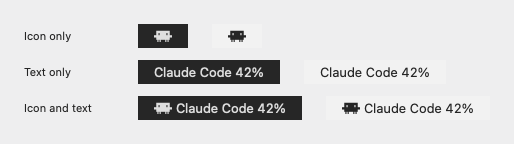
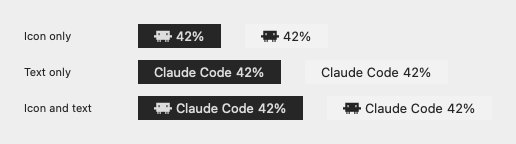
Always show the usage percentage in every menu-bar style
Keep the percentage visible when the provider uses an icon, its name, or both. The appearance setting now controls only the provider identity, with icon plus percentage remaining the default.

Clarify the preference and documentation, refresh the rendered previews, and align app and widget versions at 0.5.9 (36).

diff --git a/Sources/CodexLimits/ProviderMenuLabel.swift b/Sources/CodexLimits/ProviderMenuLabel.swift
@@ -10,9 +10,10 @@ struct ProviderMenuLabel: View {
                 ProviderIcon(provider: monitor.provider)
             }
             if displayMode != .iconOnly {
-                Text("\(monitor.provider.displayName) \(monitor.menuBarText)")
-                    .monospacedDigit()
+                Text(monitor.provider.displayName)
             }
+            Text(monitor.menuBarText)
+                .monospacedDigit()
         }
         .accessibilityElement(children: .ignore)
         .accessibilityLabel(usageDescription)

diff --git a/Sources/CodexLimits/SettingsView.swift b/Sources/CodexLimits/SettingsView.swift
@@ -34,6 +34,9 @@ struct SettingsView: View {
                     }
                 }
                 .pickerStyle(.menu)
+                Text("The usage percentage is always shown.")
+                    .font(.caption)
+                    .foregroundStyle(.secondary)
                 AccentColorPicker(appearance: appearance)
             }
 

diff --git a/README.md b/README.md
@@ -30,9 +30,9 @@
 ## Codex and Claude Code
 
 Use the selector at the top of the menu to switch between **Codex** and **Claude Code**.
-The menu bar shows the selected provider’s monochrome product icon by default.
+The menu bar shows the selected provider’s monochrome product icon and usage percentage by default.
 Choose **Icon only**, **Text only**, or **Icon and text** in **Settings → Appearance → Menu bar**.
-Text includes the provider name and usage percentage. This preference applies to both
+The percentage is always visible; this setting controls the provider icon and name. It applies to both
 providers and is saved across launches. [Icon sources and attribution](docs/provider-icons.md).
 Both providers refresh independently,
 with separate saved readings, history, chart preferences, and weekly widgets. Your existing

diff --git a/docs/provider-icons.md b/docs/provider-icons.md
@@ -18,8 +18,9 @@ compact arc syntax in the original Codex path. The conversion preserves the
 template rendering lets macOS choose the menu-bar foreground color.
 
 The default menu-bar style is **Icon only**. **Settings → Appearance → Menu bar**
-also offers **Text only** and **Icon and text**. Text includes the provider name
-and usage percentage. The menu header continues to show its icon and name.
+also offers **Text only** and **Icon and text**. Every style shows the usage
+percentage alongside the provider icon, name, or both. The menu header continues
+to show its icon and name.
 
 Light and dark synthetic previews of all three modes at menu-bar size:
 
